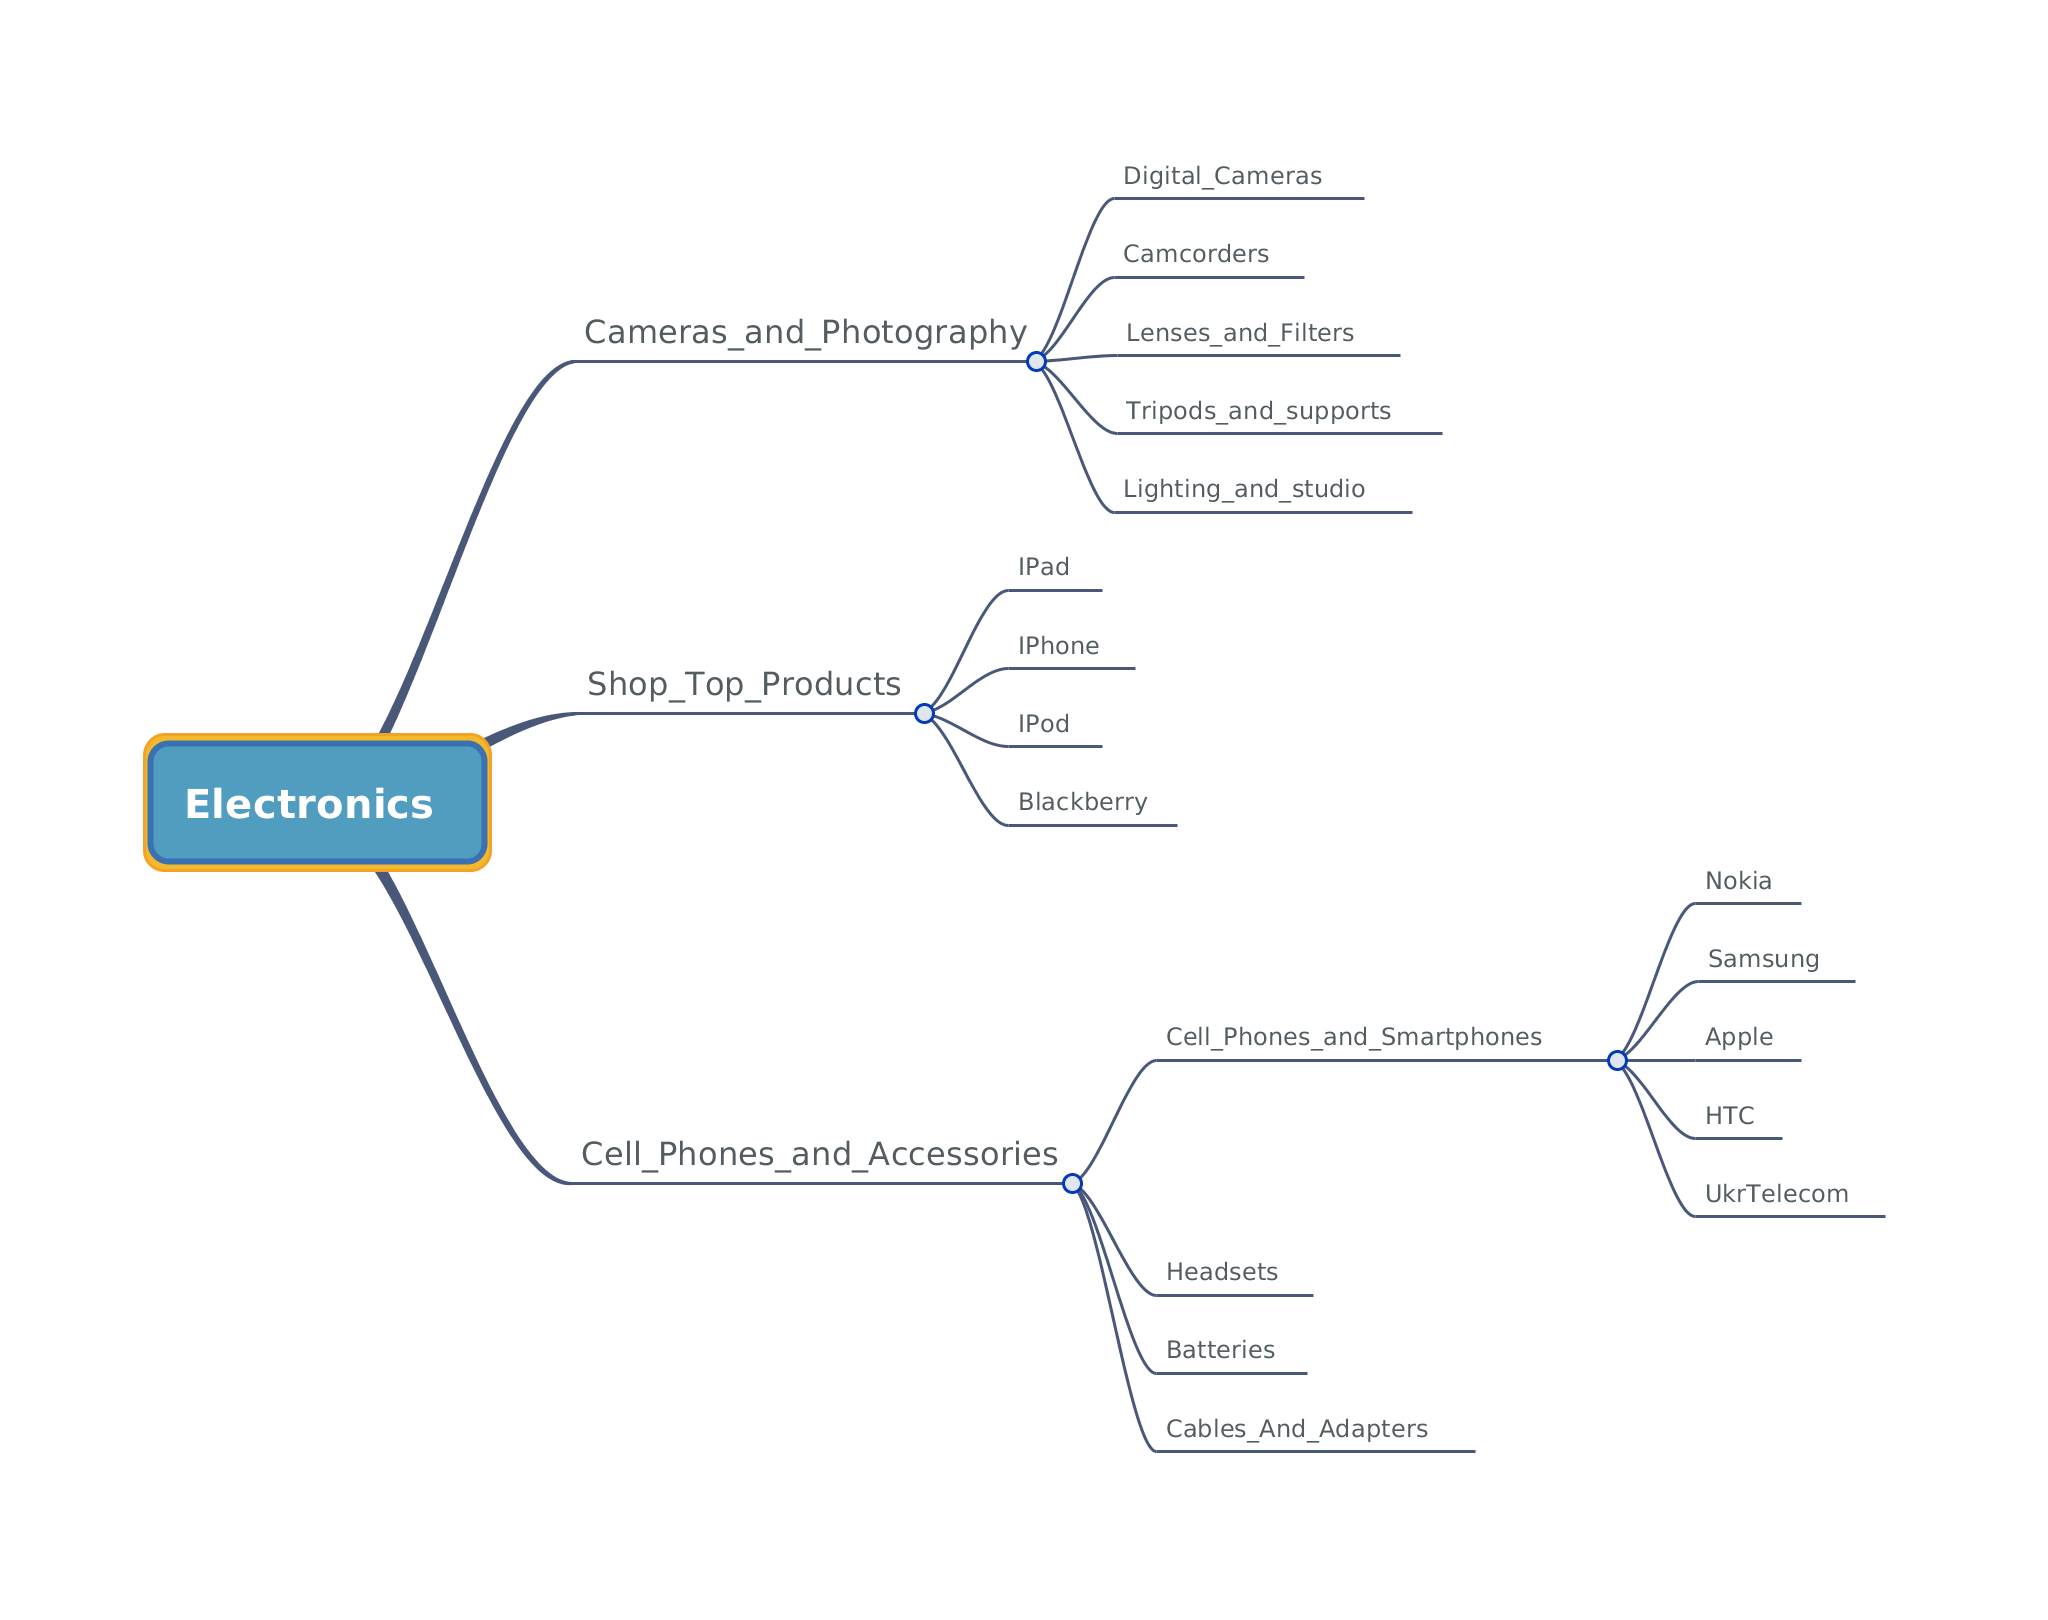
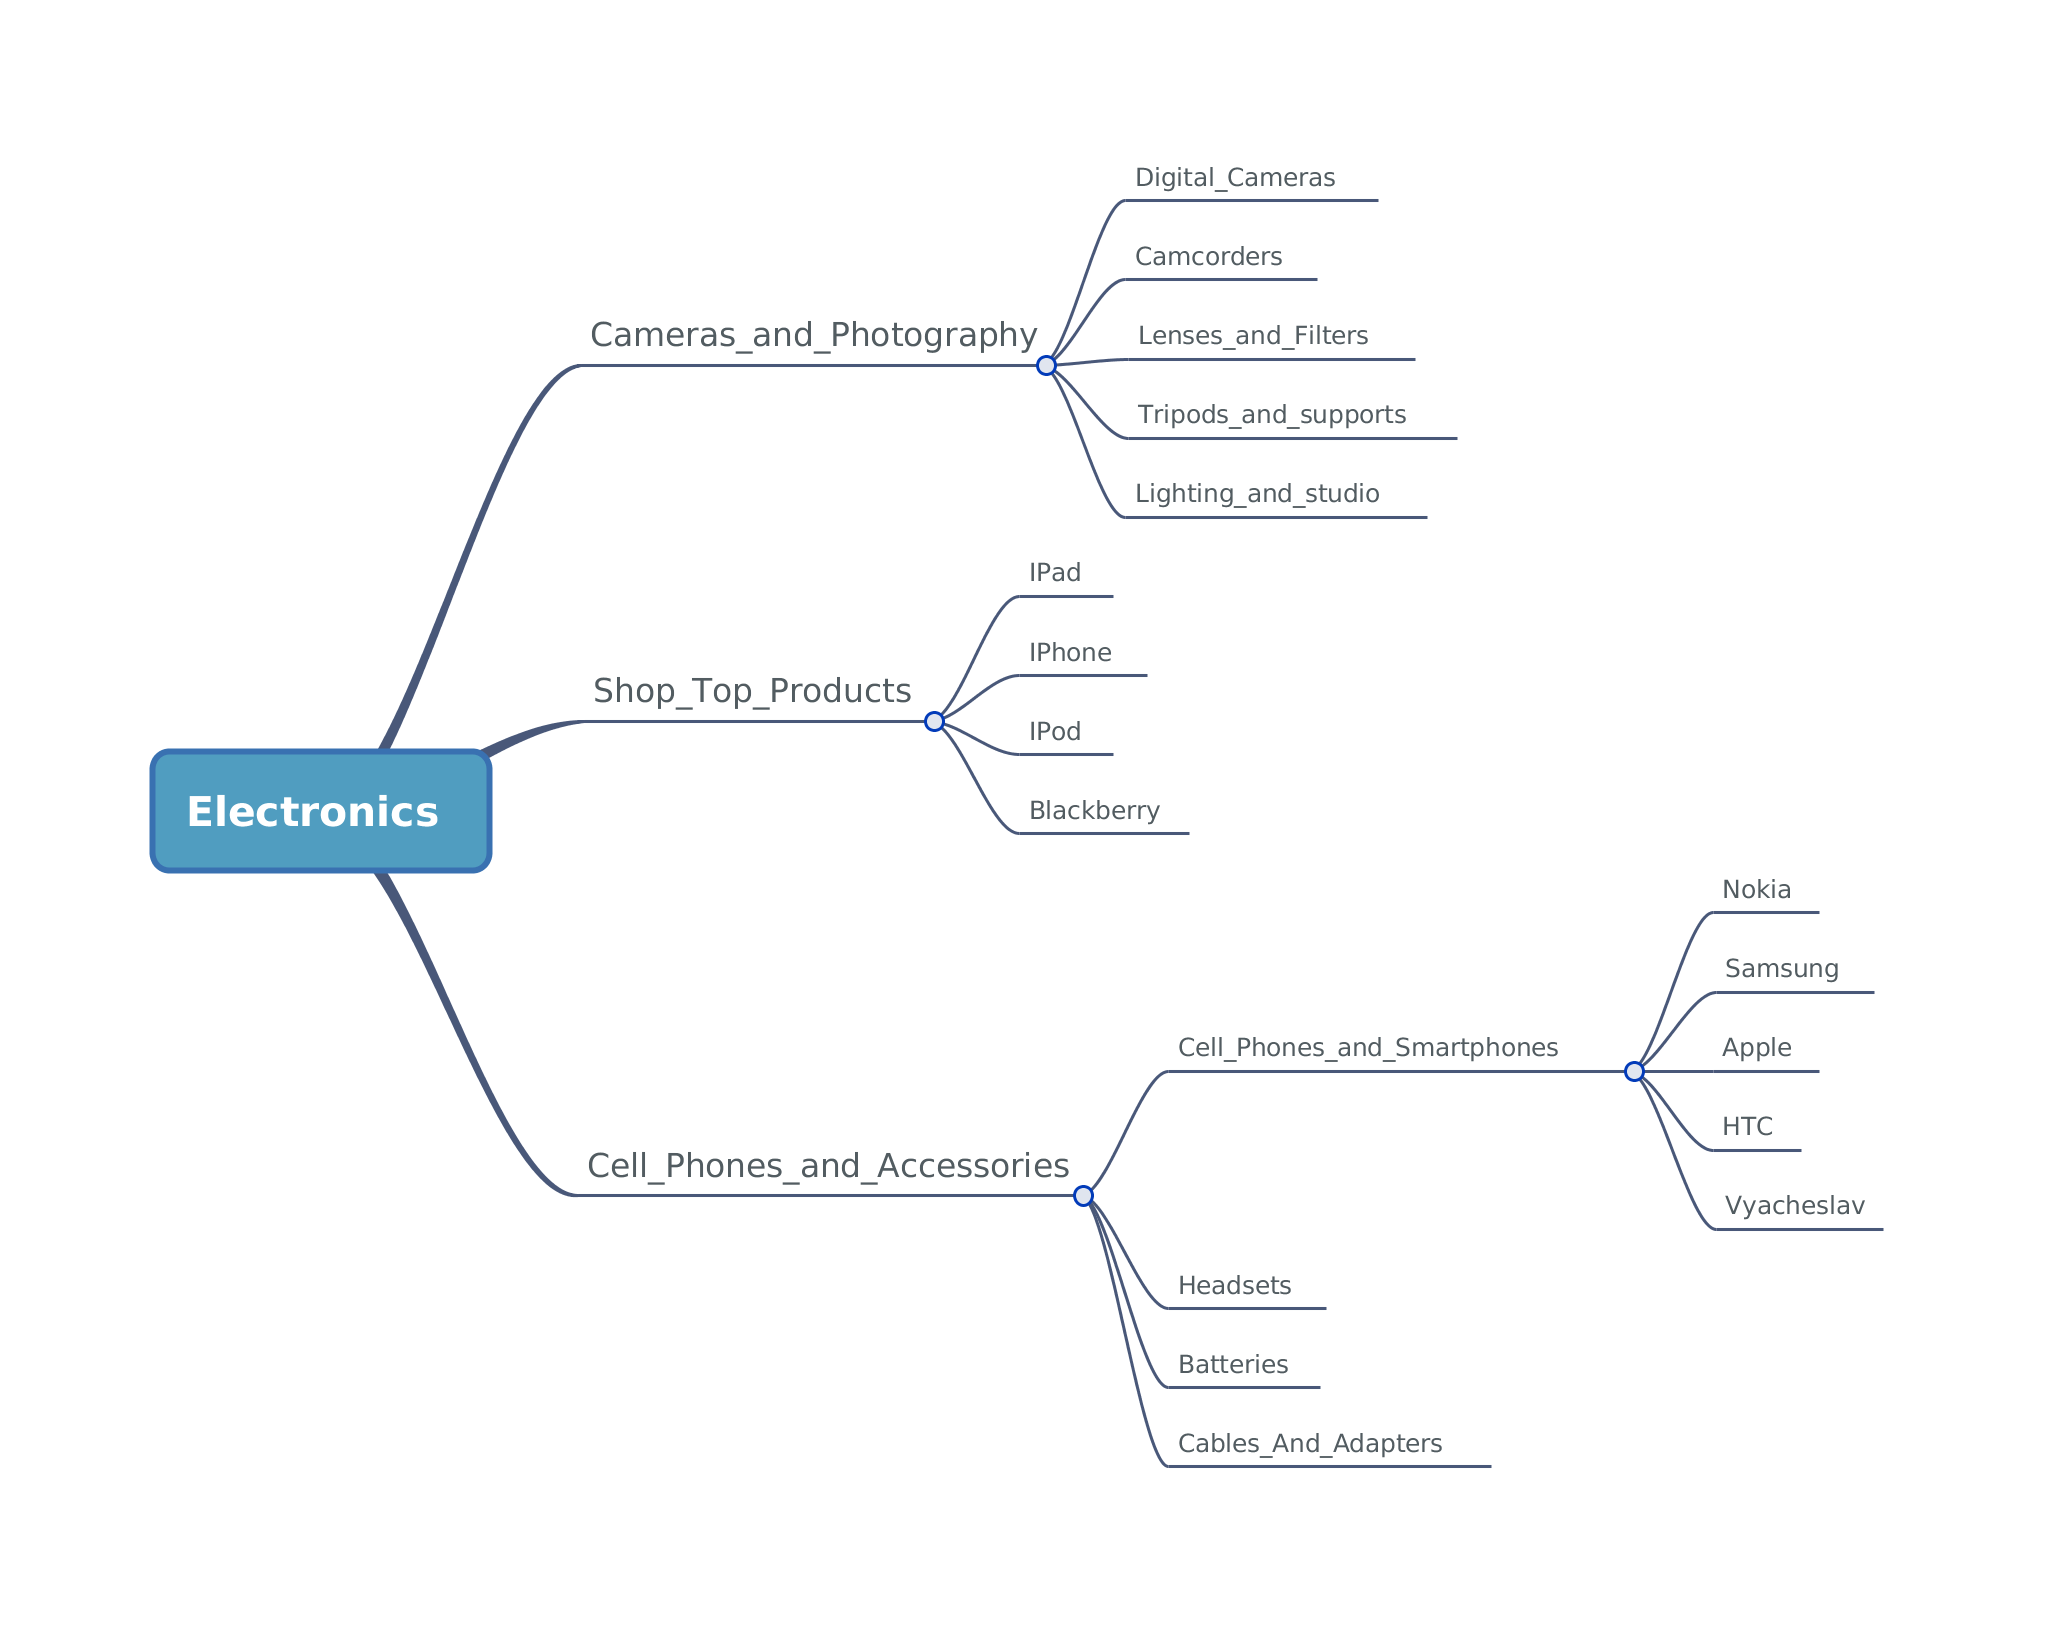
Demo changes.

diff --git a/ChildReference.js b/ChildReference.js
@@ -12,7 +12,7 @@ db.categoriesCRO.insert({_id:"IPhone",childs:[]});
 db.categoriesCRO.insert({_id:"IPod",childs:[]});
 db.categoriesCRO.insert({_id:"Blackberry",childs:[]});
 db.categoriesCRO.insert({_id:"Cell_Phones_and_Accessories",childs:["Cell_Phones_and_Smartphones","Headsets","Batteries","Cables_And_Adapters"]});
-db.categoriesCRO.insert({_id:"Cell_Phones_and_Smartphones",childs:["Nokia","Samsung","Apple","HTC","Ukrtelecom"]});
+db.categoriesCRO.insert({_id:"Cell_Phones_and_Smartphones",childs:["Nokia","Samsung","Apple","HTC","Vyacheslav"]});
 db.categoriesCRO.insert({_id:"Headsets",childs:[]});
 db.categoriesCRO.insert({_id:"Batteries",childs:[]});
 db.categoriesCRO.insert({_id:"Cables_And_Adapters",childs:[]});
@@ -20,5 +20,5 @@ db.categoriesCRO.insert({_id:"Nokia",childs:[]});
 db.categoriesCRO.insert({_id:"Samsung",childs:[]});
 db.categoriesCRO.insert({_id:"Apple",childs:[]});
 db.categoriesCRO.insert({_id:"HTC",childs:[]});
-db.categoriesCRO.insert({_id:"UkrTelecom",childs:[]});
+db.categoriesCRO.insert({_id:"Vyacheslav",childs:[]});
 

diff --git a/AncestorsReference.js b/AncestorsReference.js
@@ -23,5 +23,5 @@ db.categoriesAAO.insert({_id:"Nokia",ancestors:["Electronics","Cell_Phones_and_A
 db.categoriesAAO.insert({_id:"Samsung",ancestors:["Electronics","Cell_Phones_and_Accessories","Cell_Phones_and_Smartphones"],parent:"Cell_Phones_and_Smartphones"});
 db.categoriesAAO.insert({_id:"Apple",ancestors:["Electronics","Cell_Phones_and_Accessories","Cell_Phones_and_Smartphones"],parent:"Cell_Phones_and_Smartphones"});
 db.categoriesAAO.insert({_id:"HTC",ancestors:["Electronics","Cell_Phones_and_Accessories","Cell_Phones_and_Smartphones"],parent:"Cell_Phones_and_Smartphones"});
-db.categoriesAAO.insert({_id:"UkrTelecom",ancestors:["Electronics","Cell_Phones_and_Accessories","Cell_Phones_and_Smartphones"],parent:"Cell_Phones_and_Smartphones"});
+db.categoriesAAO.insert({_id:"Vyacheslav",ancestors:["Electronics","Cell_Phones_and_Accessories","Cell_Phones_and_Smartphones"],parent:"Cell_Phones_and_Smartphones"});
 

diff --git a/AncestorsReference_nodedescendants.js b/AncestorsReference_nodedescendants.js
@@ -8,7 +8,7 @@ while(true === ancestors.hasNext()) {
        descendants.push(elem._id);
    }
 descendants.join(",")
-//Cell_Phones_and_Smartphones,Headsets,Batteries,Cables_And_Adapters,Nokia,Samsung,Apple,HTC,UkrTelecom
+//Cell_Phones_and_Smartphones,Headsets,Batteries,Cables_And_Adapters,Nokia,Samsung,Apple,HTC,Vyacheslav
 
 
 var aggrancestors = db.categoriesAAO.aggregate([
@@ -19,4 +19,4 @@ var aggrancestors = db.categoriesAAO.aggregate([
 
 descendants = aggrancestors.result[0].ancestors
 descendants.join(",")
-//UkrTelecom,HTC,Samsung,Cables_And_Adapters,Batteries,Headsets,Apple,Nokia,Cell_Phones_and_Smartphones
+//Vyacheslav,HTC,Samsung,Cables_And_Adapters,Batteries,Headsets,Apple,Nokia,Cell_Phones_and_Smartphones

diff --git a/ParentReference.js b/ParentReference.js
@@ -20,5 +20,5 @@ db.categoriesPCO.insert({_id:"Nokia",parent:"Cell_Phones_and_Smartphones", order
 db.categoriesPCO.insert({_id:"Samsung",parent:"Cell_Phones_and_Smartphones", order:20});
 db.categoriesPCO.insert({_id:"Apple",parent:"Cell_Phones_and_Smartphones", order:30});
 db.categoriesPCO.insert({_id:"HTC",parent:"Cell_Phones_and_Smartphones", order:40});
-db.categoriesPCO.insert({_id:"UkrTelecom",parent:"Cell_Phones_and_Smartphones", order:50});
+db.categoriesPCO.insert({_id:"Vyacheslav",parent:"Cell_Phones_and_Smartphones", order:50});
 

diff --git a/ChildReference_operating.js b/ChildReference_operating.js
@@ -15,7 +15,7 @@ db.categoriesCRO.find({_id:'Electronics'});
 
 db.categoriesCRO.update({_id:'Cell_Phones_and_Smartphones'},{  $addToSet:{childs:'LG'}});
 db.categoriesCRO.update({_id:'Electronics'},{$pull:{childs:'LG'}});
-//{ "_id" : "Cell_Phones_and_Smartphones", "childs" : [ "Nokia", "Samsung", "Apple", "HTC", "Ukrtelecom", "LG" ] }
+//{ "_id" : "Cell_Phones_and_Smartphones", "childs" : [ "Nokia", "Samsung", "Apple", "HTC", "Vyacheslav", "LG" ] }
 db.categoriesCRO.find({_id:'Cell_Phones_and_Smartphones'});
 
 

diff --git a/ParentReference_nodedescendants.js b/ParentReference_nodedescendants.js
@@ -16,7 +16,7 @@ while (stack.length>0){
 
 
 descendants.join(",")
-//Cell_Phones_and_Smartphones,Headsets,Batteries,Cables_And_Adapters,Nokia,Samsung,Apple,HTC,UkrTelecom
+//Cell_Phones_and_Smartphones,Headsets,Batteries,Cables_And_Adapters,Nokia,Samsung,Apple,HTC,Vyacheslav
 
 
 

diff --git a/README.md b/README.md
@@ -29,8 +29,21 @@ As a demo dataset I use some fake eshop goods taxonomy.
 - Get path to node (for example, in order to be build the breadcrumb section)
 - Get all node descendants (in order to be able, for example, to select goods from more general category, like 'Cell Phones and Accessories' which should include goods from all subcategories.
 
+On each of the examples below we:
+
+- Add new node called 'LG' under electronics
+- Move 'LG' node under Cell_Phones_And_Smartphones node
+- Remove 'LG' node from the tree
+- Get child nodes of Electronics node
+- Get path to 'Nokia' node
+- Get all descendants of the 'Cell_Phones_and_Accessories' node
+
+Please refer to image above for visual representation.
+
+
 #Tree structure with parent reference
 This is most commonly used approach. For each node we store (ID, ParentReference, Order).
+![](https://raw.github.com/Voronenko/Storing_TreeView_Structures_WithMongoDB/master/images/ParentReference.jpg)
 ## Operating with tree
 Pretty simple, but changing the position of the node withing siblings will require additional calculations.
 You might want to set high numbers like item position * 10^6 for order in order to be able to set new node order as trunc (lower sibling order - higher sibling order)/2 - this will give you enough operations, until you will need to traverse whole the tree and set the order defaults to big numbers again.
@@ -65,7 +78,7 @@ db.categoriesPCO.find({$query:{parent:'Electronics'}, $orderby:{order:1}})
 //{ "_id" : "Cell_Phones_and_Accessories", "parent" : "Electronics", "order" : 30 }
 </pre>
 
-## Getting all node descendants 
+### Getting all node descendants 
 Unfortunately, also involves recursive operation
 <pre>
 var descendants=[]
@@ -84,7 +97,7 @@ while (stack.length>0){
 
 
 descendants.join(",")
-//Cell_Phones_and_Smartphones,Headsets,Batteries,Cables_And_Adapters,Nokia,Samsung,Apple,HTC,UkrTelecom
+//Cell_Phones_and_Smartphones,Headsets,Batteries,Cables_And_Adapters,Nokia,Samsung,Apple,HTC,Vyacheslav
 
 </pre>
 
@@ -109,7 +122,9 @@ path.reverse().join(' / ');
 
 
 #Tree structure with childs reference
-For each node we store (ID, ChildReferences). Please note, that in this case we do not need order field, because Childs collection
+For each node we store (ID, ChildReferences). 
+
+Please note, that in this case we do not need order field, because Childs collection
 already provides this information. Most of languages respect the array order. If this is not in case for your language, you might consider
 additional coding to preserve order, however this will make things more complicated.
 
@@ -132,7 +147,7 @@ moving the node
 <pre>
 db.categoriesCRO.update({_id:'Cell_Phones_and_Smartphones'},{  $addToSet:{childs:'LG'}});
 db.categoriesCRO.update({_id:'Electronics'},{$pull:{childs:'LG'}});
-//{ "_id" : "Cell_Phones_and_Smartphones", "childs" : [ "Nokia", "Samsung", "Apple", "HTC", "Ukrtelecom", "LG" ] }
+//{ "_id" : "Cell_Phones_and_Smartphones", "childs" : [ "Nokia", "Samsung", "Apple", "HTC", "Vyacheslav", "LG" ] }
 
 </pre>
 
@@ -166,7 +181,7 @@ Result set:
 </pre>
 As you see, we have ordered array childs, which can be used to sort the result set on a client
 
-## Getting all node descendants 
+### Getting all node descendants 
 
 <pre>
 var descendants=[]
@@ -250,7 +265,7 @@ while(true === ancestors.hasNext()) {
        descendants.push(elem._id);
    }
 descendants.join(",")
-//Cell_Phones_and_Smartphones,Headsets,Batteries,Cables_And_Adapters,Nokia,Samsung,Apple,HTC,UkrTelecom
+//Cell_Phones_and_Smartphones,Headsets,Batteries,Cables_And_Adapters,Nokia,Samsung,Apple,HTC,Vyacheslav
 </pre>
 
 second is using aggregation framework introduced in MongoDB 2.2:
@@ -263,7 +278,7 @@ var aggrancestors = db.categoriesAAO.aggregate([
 
 descendants = aggrancestors.result[0].ancestors
 descendants.join(",")
-//UkrTelecom,HTC,Samsung,Cables_And_Adapters,Batteries,Headsets,Apple,Nokia,Cell_Phones_and_Smartphones
+//Vyacheslav,HTC,Samsung,Cables_And_Adapters,Batteries,Headsets,Apple,Nokia,Cell_Phones_and_Smartphones
 </pre>
 
 
@@ -286,4 +301,14 @@ path.reverse().join(' / ');
 
 #Code in action
 
-Code can be downloaded from repository https://github.com/Voronenko/JSOTP
+Code can be downloaded from repository [https://github.com/Voronenko/Storing_TreeView_Structures_WithMongoDB](https://github.com/Voronenko/Storing_TreeView_Structures_WithMongoDB "https://github.com/Voronenko/Storing_TreeView_Structures_WithMongoDB")
+
+All files are packaged according to the following naming convention:
+
+- MODELReference.js - initialization file with tree data for MODEL approach
+- MODELReference_operating.js - add/update/move/remove/get children examples
+- MODELReference_pathtonode.js - code illustrating how to obtain path to node
+- MODELReference_nodedescendants.js - code illustrating how to retrieve all the descendands of the node
+
+
+
